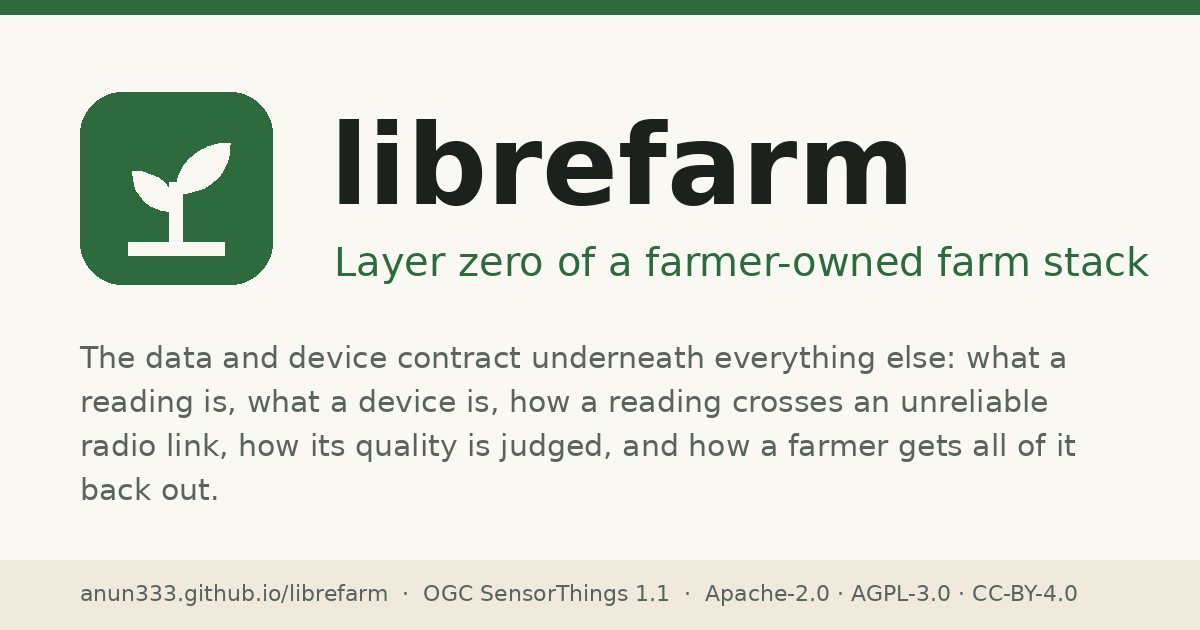
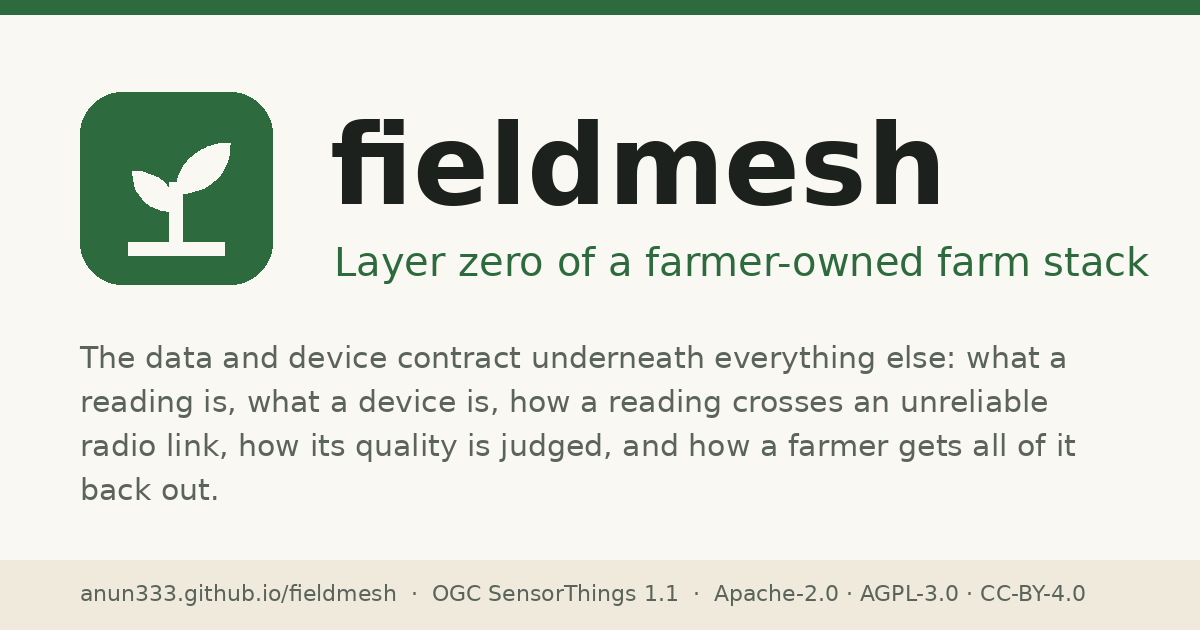
Rename librefarm to fieldmesh
"libre" claimed more than the project yet is (one maintainer, no farmer in its
governance), and the name it moves to says what layer zero does: sensors in the field
linked to their neighbours, whatever the field is. Farmers stay the focus.

Every occurrence moves: prose, URLs, the SensorThings namespace parameters/fieldmesh
(computed, never stored), the token variable FIELDMESH_TOKEN, user agents, the server
banner, and the local vocabulary namespace. The collected logs never contained the old
name. urn:fieldmesh:sm is the same length as before, so the Q5 byte counts stand.
Q4c records the namespace move: one day old, nothing outside the repository used it.

Changed region(s): [[0.2775, 0.181, 0.8017, 0.3317], [0.5858, 0.9048, 0.925, 0.9651], [0.2467, 0.9048, 0.555, 0.9651]]

diff --git a/tools/pages.py b/tools/pages.py
@@ -45,9 +45,9 @@ from pathlib import Path
 ROOT = Path(__file__).resolve().parent.parent
 ASSETS = Path(__file__).resolve().parent / "pages_assets"
 
-BASE = "https://anun333.github.io/librefarm/"
-REPO = "https://github.com/anun333/librefarm"
-NAME = "librefarm"
+BASE = "https://anun333.github.io/fieldmesh/"
+REPO = "https://github.com/anun333/fieldmesh"
+NAME = "fieldmesh"
 TAGLINE = "Layer zero of a farmer-owned farm stack"
 SUMMARY = ("The data and device contract underneath everything else: what a reading is, "
            "what a device is, how a reading crosses an unreliable radio link, how its "
@@ -351,7 +351,7 @@ def listing_page(directory: str, pages: list[Page], dirs: dict[str, str]) -> Pag
 
 
 def _load_vocab():
-    spec = importlib.util.spec_from_file_location("librefarm_site_vocab",
+    spec = importlib.util.spec_from_file_location("fieldmesh_site_vocab",
                                                   ROOT / "sdk" / "vocab.py")
     module = importlib.util.module_from_spec(spec)
     sys.modules[spec.name] = module
@@ -432,7 +432,7 @@ def vocab_pages(md, links: Links) -> tuple[list[Page], dict]:
                   "name": label, "termCode": code, "description": definition,
                   "url": absolute(out), "inDefinedTermSet": {
                       "@type": "DefinedTermSet", "@id": vocab.LOCAL,
-                      "name": "librefarm local vocabulary", "url": absolute(index_out)}}
+                      "name": "fieldmesh local vocabulary", "url": absolute(index_out)}}
         pages.append(Page(out=out, title=label, description=shorten(definition), body=body,
                           licence=licence, modified=modified, kind="term", jsonld=jsonld))
         concept = {"@id": uri, "@type": "skos:Concept", "skos:notation": code,
@@ -455,7 +455,7 @@ def vocab_pages(md, links: Links) -> tuple[list[Page], dict]:
                      f"<td><code>{esc(unit)}</code></td><td>{esc(src)}</td></tr>")
     body = (
         '<h1 id="top">Vocabulary</h1>\n'
-        '<p class="lede">Every observed-property term librefarm uses, by URI, with the '
+        '<p class="lede">Every observed-property term fieldmesh uses, by URI, with the '
         "UCUM unit it is normally reported in. Measurands come from the CF Standard Names "
         "and sensor-plumbing terms from ODM2. A local term exists only for a gap in both, "
         "says why, and is owed upstream — so the local list is short on purpose.</p>\n"
@@ -470,13 +470,13 @@ def vocab_pages(md, links: Links) -> tuple[list[Page], dict]:
         f'decision is <a href="{esc(relative(q4c, index_out))}#q4-unit-system-and-'
         f'observed-property-vocabulary">Q4</a>.</p>\n')
     pages.insert(0, Page(out=index_out, title="Vocabulary", description=shorten(
-        "Every observed-property term librefarm uses, with its unit and source: CF "
+        "Every observed-property term fieldmesh uses, with its unit and source: CF "
         "Standard Names, ODM2, and the few local terms owed upstream."), body=body,
         licence=licence, modified=modified, kind="listing"))
     skos = {"@context": {"skos": "http://www.w3.org/2004/02/skos/core#",
                          "dct": "http://purl.org/dc/terms/"},
             "@graph": [{"@id": vocab.LOCAL, "@type": "skos:ConceptScheme",
-                        "dct:title": "librefarm local vocabulary",
+                        "dct:title": "fieldmesh local vocabulary",
                         "dct:license": {"@id": LICENCES.get(licence, licence)},
                         "dct:source": {"@id": f"{REPO}/blob/main/sdk/vocab.py"},
                         "skos:hasTopConcept": [{"@id": c["@id"]} for c in concepts]},
@@ -805,7 +805,7 @@ def card(path: Path) -> None:
         else:
             line = trial
     d.text((80, y), line, font=f, fill=muted)
-    d.text((80, 580), "anun333.github.io/librefarm  ·  OGC SensorThings 1.1  ·  "
+    d.text((80, 580), "anun333.github.io/fieldmesh  ·  OGC SensorThings 1.1  ·  "
            "Apache-2.0 · AGPL-3.0 · CC-BY-4.0", font=font(False, 22), fill=muted)
     img.save(path, optimize=True)
 

diff --git a/sdk/test_sensorthings.py b/sdk/test_sensorthings.py
@@ -144,13 +144,13 @@ class TestTimeMapping(unittest.TestCase):
         obs = fx.observation(self.ds, measured_at=fx.at(0), received_at=fx.at(4320))
         doc = st.Service(_state(self.ds, obs)).observation(obs)
         self.assertIsNone(doc["resultTime"])
-        self.assertEqual(doc["parameters"]["librefarm"]["received_at"],
+        self.assertEqual(doc["parameters"]["fieldmesh"]["received_at"],
                          st.iso(obs.received_at))
 
     def test_the_other_four_time_fields_travel_in_parameters(self):
         obs = fx.observation(self.ds, uncertainty=600, boot=3, seq=77,
                              clock_quality=ClockQuality.NONE)
-        extras = st.Service(_state(self.ds, obs)).observation(obs)["parameters"]["librefarm"]
+        extras = st.Service(_state(self.ds, obs)).observation(obs)["parameters"]["fieldmesh"]
         self.assertEqual(extras["measured_at_uncertainty_s"], 600)
         self.assertEqual(extras["clock_quality"], "none")
         self.assertEqual((extras["boot"], extras["seq"]), (3, 77))
@@ -158,7 +158,7 @@ class TestTimeMapping(unittest.TestCase):
     def test_extras_are_namespaced_so_they_do_not_pose_as_environmental_params(self):
         obs = fx.observation(self.ds)
         params = st.Service(_state(self.ds, obs)).observation(obs)["parameters"]
-        self.assertEqual(list(params), ["librefarm"])
+        self.assertEqual(list(params), ["fieldmesh"])
 
     def test_interval_times_expose_the_uncertainty_window(self):
         """Opt-in: standards-native honesty, but many clients assume an instant."""
@@ -180,7 +180,7 @@ class TestTimeMapping(unittest.TestCase):
         obs = [fx.observation(self.ds, node="!bed01", boot=1, seq=n,
                               measured_at=fx.at(n)) for n in (2, 0, 1)]
         served = st.Service(_state(self.ds, *obs)).observations(self.ds.id)["value"]
-        seqs = [o["parameters"]["librefarm"]["seq"] for o in served]
+        seqs = [o["parameters"]["fieldmesh"]["seq"] for o in served]
         self.assertEqual(seqs, [0, 1, 2])
 
 
@@ -352,7 +352,7 @@ class TestValidatedAgainstFrost(unittest.TestCase):
     """Findings from running FROST-Server as a conformance oracle.
 
     FROST accepted a deep insert of these documents (HTTP 201) and round-tripped
-    `resultQuality` — nested `evidence` included — and `parameters/librefarm`
+    `resultQuality` — nested `evidence` included — and `parameters/fieldmesh`
     intact, so both extension decisions hold in the reference implementation.
     These tests pin the two places where its output and ours differed.
     """
@@ -413,7 +413,7 @@ class TestDialectSeam(unittest.TestCase):
 
     def test_the_2_0_draft_renames_parameters_to_properties(self):
         doc = st.Service(self.state, dialect=st.SensorThings20Draft).observation(self.obs)
-        self.assertIn("librefarm", doc["properties"])
+        self.assertIn("fieldmesh", doc["properties"])
         self.assertNotIn("parameters", doc)
 
     def test_quality_has_nowhere_standard_to_go_in_2_0(self):
@@ -421,13 +421,13 @@ class TestDialectSeam(unittest.TestCase):
         nothing standards-aware will look — the argument in Q18."""
         doc = st.Service(self.state, dialect=st.SensorThings20Draft).observation(self.obs)
         self.assertNotIn("resultQuality", doc)
-        self.assertEqual(doc["properties"]["librefarm"]["result_quality"][0]["usable"],
+        self.assertEqual(doc["properties"]["fieldmesh"]["result_quality"][0]["usable"],
                          "bad")
 
     def test_1_1_keeps_quality_in_its_standard_place(self):
         doc = st.Service(self.state, dialect=st.SensorThings11).observation(self.obs)
         self.assertEqual(doc["resultQuality"][0]["usable"], "bad")
-        self.assertNotIn("result_quality", doc["parameters"]["librefarm"])
+        self.assertNotIn("result_quality", doc["parameters"]["fieldmesh"])
 
     def test_the_model_knows_nothing_about_sensorthings(self):
         import model

diff --git a/sdk/sensorthings.py b/sdk/sensorthings.py
@@ -19,11 +19,11 @@ SensorThings is.
 
 Two mapping decisions worth stating, because both could reasonably go the other way:
 
-**Layer-zero fields are namespaced under `parameters/librefarm`.** 1.1 documents
+**Layer-zero fields are namespaced under `parameters/fieldmesh`.** 1.1 documents
 `parameters` as "key-value pairs showing the environmental conditions during
 measurement". `received_at`, `seq`, `boot` and `clock_quality` are not that, and
 scattering them at the top level would both misrepresent them and collide with a
-legitimate use. Nesting keeps `$filter` working — `parameters/librefarm/clock_quality
+legitimate use. Nesting keeps `$filter` working — `parameters/fieldmesh/clock_quality
 eq 'none'` is a valid path — and reduces the 2.0 migration to one key.
 
 **`resultTime` is null for a measurement.** 1.1 makes it mandatory-but-nullable, and it
@@ -525,7 +525,7 @@ class Service:
                 # 2.0 drops resultQuality (Table 17). Nothing standards-aware
                 # will look here, which is the argument in Q18.
                 extras["result_quality"] = quality
-        doc[d.extras_key] = {"librefarm": extras}
+        doc[d.extras_key] = {"fieldmesh": extras}
         doc[f"{d.feature_link}{d.nav_suffix}"] = (
             f"{self._link('Observations', obs.id)}/{d.feature_link}")
         doc[f"Datastream{d.nav_suffix}"] = (

diff --git a/tools/forecast_collect.py b/tools/forecast_collect.py
@@ -18,7 +18,7 @@ acts on the forecast at dusk, and every run kept costs log space: some 185 hours
 variable, each with its range-check assertion, about 470 KB a run for two variables, so
 about 350 MB a year at two runs a day:
 
-    17 6,18 * * *  cd ~/dev/librefarm && python3 tools/forecast_collect.py ~/farm/log.jsonl --lat 35.0645 --lon -86.5914
+    17 6,18 * * *  cd ~/dev/fieldmesh && python3 tools/forecast_collect.py ~/farm/log.jsonl --lat 35.0645 --lon -86.5914
 
 Nothing is scheduled by this tool itself; adding that line is the farm's decision.
 """
@@ -103,7 +103,7 @@ def main(argv=None) -> int:
     ap.add_argument("--lat", type=float, required=True)
     ap.add_argument("--lon", type=float, required=True)
     ap.add_argument("--source", choices=("nws", "metno"), default="nws")
-    ap.add_argument("--user-agent", default="librefarm/0.1")
+    ap.add_argument("--user-agent", default="fieldmesh/0.1")
     ap.add_argument("--variables", default="air_temperature,precipitation",
                     help="which to keep, of air_temperature, precipitation, relative_humidity, "
                          "wind_speed and precipitation_probability; each run re-forecasts some "

diff --git a/tools/scan_collect.py b/tools/scan_collect.py
@@ -21,7 +21,7 @@ Each call is idempotent — an hour already in the log is skipped — so it can 
 AWDB gives hours in the station's local standard time; the station's own offset is used,
 never the host's.
 
-    41 */6 * * *  cd ~/dev/librefarm && python3 tools/scan_collect.py ~/dev/librefarm-data/mcallister-scan.jsonl --station 2075:TN:SCAN --soil-cache ~/dev/librefarm-data/soil
+    41 */6 * * *  cd ~/dev/fieldmesh && python3 tools/scan_collect.py ~/dev/fieldmesh-data/mcallister-scan.jsonl --station 2075:TN:SCAN --soil-cache ~/dev/fieldmesh-data/soil
 """
 from __future__ import annotations
 
@@ -83,7 +83,7 @@ SOIL_SHAPE = {"spike_step": 5.0, "max_fall_per_s": 5.0 / 3600.0}
 
 def fetch(path: str, **params) -> object:
     query = "&".join(f"{k}={v}" for k, v in params.items())
-    req = urllib.request.Request(f"{AWDB}/{path}?{query}", headers={"User-Agent": "librefarm/0.1"})
+    req = urllib.request.Request(f"{AWDB}/{path}?{query}", headers={"User-Agent": "fieldmesh/0.1"})
     with urllib.request.urlopen(req, timeout=120) as r:
         return json.load(r)
 

diff --git a/tools/forecast_score.py b/tools/forecast_score.py
@@ -2,7 +2,7 @@
 # SPDX-License-Identifier: Apache-2.0
 """Score the forecasts a farm collected against its station.
 
-    python3 tools/forecast_score.py ~/dev/librefarm-data/mcallister-forecasts.jsonl
+    python3 tools/forecast_score.py ~/dev/fieldmesh-data/mcallister-forecasts.jsonl
 
 Reads a log that tools/forecast_collect.py has been filling, finds the forecast
 datastream by its name ("NWS forecast: air temperature"), fetches the station's hourly
@@ -48,7 +48,7 @@ def main(argv=None) -> int:
     ap.add_argument("--name", default="NWS forecast: air temperature")
     ap.add_argument("--station", default="2075:TN:SCAN")
     ap.add_argument("--utc-offset", type=float, default=-6.0)
-    ap.add_argument("--cache", default=os.path.expanduser("~/dev/librefarm-data/cache"))
+    ap.add_argument("--cache", default=os.path.expanduser("~/dev/fieldmesh-data/cache"))
     args = ap.parse_args(argv)
     state = P.state_from_log(L.Log(args.log))
     named = [e for e in state.entities_named(args.name) if e in state.datastreams]

diff --git a/sdk/vocab.py b/sdk/vocab.py
@@ -42,7 +42,7 @@ ODM2 = "http://vocabulary.odm2.org/variablename/"
 #: writes at the path the URI names. The durable namespace is decided as w3id.org (Q4c)
 #: and not yet requested; one constant, so the move is a one-line change rather than a
 #: migration.
-LOCAL = "https://anun333.github.io/librefarm/vocab/"
+LOCAL = "https://anun333.github.io/fieldmesh/vocab/"
 
 
 # ------------------------------------------------------------------ measurands
@@ -212,7 +212,7 @@ def resolve(timeout: float = 20.0) -> dict[str, int | str]:
     for uri in TERMS:
         try:
             request = urllib.request.Request(uri, method="GET",
-                                             headers={"User-Agent": "librefarm-vocab"})
+                                             headers={"User-Agent": "fieldmesh-vocab"})
             with urllib.request.urlopen(request, timeout=timeout) as response:
                 out[uri] = response.status
         except Exception as exc:              # noqa: BLE001 — reported per term

diff --git a/tools/forecast_sources.py b/tools/forecast_sources.py
@@ -220,12 +220,12 @@ def main(argv=None) -> int:
     ap.add_argument("source", choices=("nws", "metno"))
     ap.add_argument("lat", type=float)
     ap.add_argument("lon", type=float)
-    ap.add_argument("--user-agent", default="librefarm/0.1",
+    ap.add_argument("--user-agent", default="fieldmesh/0.1",
                     help="MET Norway requires the application and a contact in it")
     ap.add_argument("--json", help="write the run here")
     ap.add_argument("--tz", help="IANA time zone for the daily summary (NWS supplies one)")
     args = ap.parse_args(argv)
-    if args.source == "metno" and args.user_agent == "librefarm/0.1":
+    if args.source == "metno" and args.user_agent == "fieldmesh/0.1":
         print("MET Norway's terms ask for a contact in the User-Agent: pass --user-agent "
               "'yourapp/1.0 you@example.org'", file=sys.stderr)
         return 2

diff --git a/sdk/spool.py b/sdk/spool.py
@@ -8,7 +8,7 @@ has been received and expanded into observations, it still has to reach the log,
 the log may be on a machine that is briefly unreachable. A reading dropped here is
 indistinguishable from a reading the sensor never took, and §5.4 forbids guessing.
 
-  * AUTH    Bearer $LIBREFARM_TOKEN (or an explicit `token=`) when set.
+  * AUTH    Bearer $FIELDMESH_TOKEN (or an explicit `token=`) when set.
   * RETRY   network errors and 5xx retry with exponential backoff; 4xx returns
             immediately, because a malformed batch will never succeed.
   * SPOOL   after retries are exhausted, `spool=<path>` appends the batch as one
@@ -35,7 +35,7 @@ import urllib.request
 
 
 DEFAULT_PATH = "/api/ingest"
-TOKEN_ENV = "LIBREFARM_TOKEN"
+TOKEN_ENV = "FIELDMESH_TOKEN"
 
 
 def post_json(base_url, path, doc, *, timeout=10, retries=3, backoff=1.5, token=None):

diff --git a/tools/nbm_verify.py b/tools/nbm_verify.py
@@ -132,7 +132,7 @@ def scan_hourly(triplet: str, start: _dt.date, end: _dt.date, utc_offset_h: floa
     else:
         url = (f"{AWDB}?stationTriplets={triplet}&elements=TOBS&duration=HOURLY"
                f"&beginDate={start}%2000:00&endDate={end}%2023:00")
-        with urllib.request.urlopen(urllib.request.Request(url, headers={"User-Agent": "librefarm"}), timeout=120) as r:
+        with urllib.request.urlopen(urllib.request.Request(url, headers={"User-Agent": "fieldmesh"}), timeout=120) as r:
             doc = json.load(r)
         with open(path, "w", encoding="utf-8") as h:
             json.dump(doc, h)

diff --git a/sim/harrow_bend.py b/sim/harrow_bend.py
@@ -373,7 +373,7 @@ def _series(farm, *, name, feature, prop, unit, scale, decimals, thresholds,
                         model=_MODELS.get(prop, "generic probe"),
                         serial=f"SN-{sensor_id.hex[:8]}",
                         manufacturer="Harrow Bend Instruments",
-                        firmware="1.4.2", driver="librefarm.sim",
+                        firmware="1.4.2", driver="fieldmesh.sim",
                         driver_version="0",
                         capabilities={"dedup_volatile": False,
                                       "confirms_delivery": True})

diff --git a/modules/advise/tunnel_gain.py b/modules/advise/tunnel_gain.py
@@ -7,7 +7,7 @@
 modules/advise/notes/hoop-houses.md: how much warmer an unheated tunnel keeps a night varies by
 tunnel and by night, so the matcher leaves the winter low unchanged until it is measured.
 This measures it, from two air-temperature series of `time,value` rows (an export of two
-librefarm datastreams, or any logger's), and reports:
+fieldmesh datastreams, or any logger's), and reports:
 
 * **winter gain** — inside minus outside nightly minimum, binned by how cold the night was
   outside, because the gain shrinks on the coldest, clearest nights; and the figure to pass
